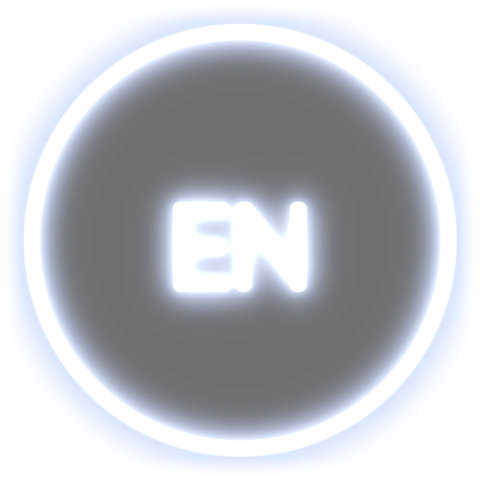
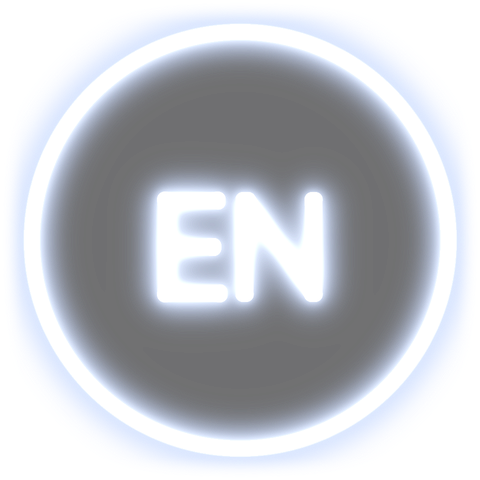
Tutorial: hide-controls tip before Ready; bigger EN/ES in language button

Changed region(s): [[0.2812, 0.3438, 0.7188, 0.6875]]

diff --git a/core/src/com/spaceship/main/TutorialFlow.java b/core/src/com/spaceship/main/TutorialFlow.java
@@ -20,7 +20,7 @@ import com.spaceship.objects.Spaceship;
  * keep both colours even.
  */
 class TutorialFlow {
-	private static final int MOVE = 0, BLUE = 1, RED = 2, WRONG = 3, LIFE = 4, ITEM = 5, USE = 6, GAIN = 7, TIP = 8, EVEN = 9, READY = 10, GO = 11, DONE = 12;
+	private static final int MOVE = 0, BLUE = 1, RED = 2, WRONG = 3, LIFE = 4, ITEM = 5, USE = 6, GAIN = 7, TIP = 8, EVEN = 9, HIDE = 10, READY = 11, GO = 12, DONE = 13;
 	private static final int ORB_SPEED = 240;
 
 	private final PlayScreen ps;
@@ -86,6 +86,8 @@ class TutorialFlow {
 			return en ? "There are more power-ups that can help you..." : "Hay m\u00e1s poderes que te pueden ayudar...";
 		case EVEN:
 			return en ? "Your score is the colour you collect the least.\nKeep them even!" : "Tu puntaje es el color que menos recoges.\n\u00a1Mantenlos parejos!";
+		case HIDE:
+			return en ? "You can hide these controls from the pause menu" : "Puedes ocultar estos controles desde el men\u00fa de pausa";
 		case READY:
 			return en ? "Ready?" : "Listo?";
 		case GO:
@@ -223,6 +225,10 @@ class TutorialFlow {
 			}
 			if (evenSpawned >= 5 && stepTime > 11f)
 				next(0f);
+			break;
+		case HIDE:
+			if (stepTime > 3.2f)
+				next(0.3f);
 			break;
 		case READY:
 			if (stepTime > 1.1f)

diff --git a/tools/art/neon.py b/tools/art/neon.py
@@ -407,12 +407,12 @@ def _(p):
 
 @glyph('en')
 def _(p):
-    p.text(0, 0.05, 'EN', 0.95)
+    p.text(0, 0.05, 'EN', 1.2)
 
 
 @glyph('es')
 def _(p):
-    p.text(0, 0.05, 'ES', 0.95)
+    p.text(0, 0.05, 'ES', 1.2)
 
 
 SLASH = ('no',)
